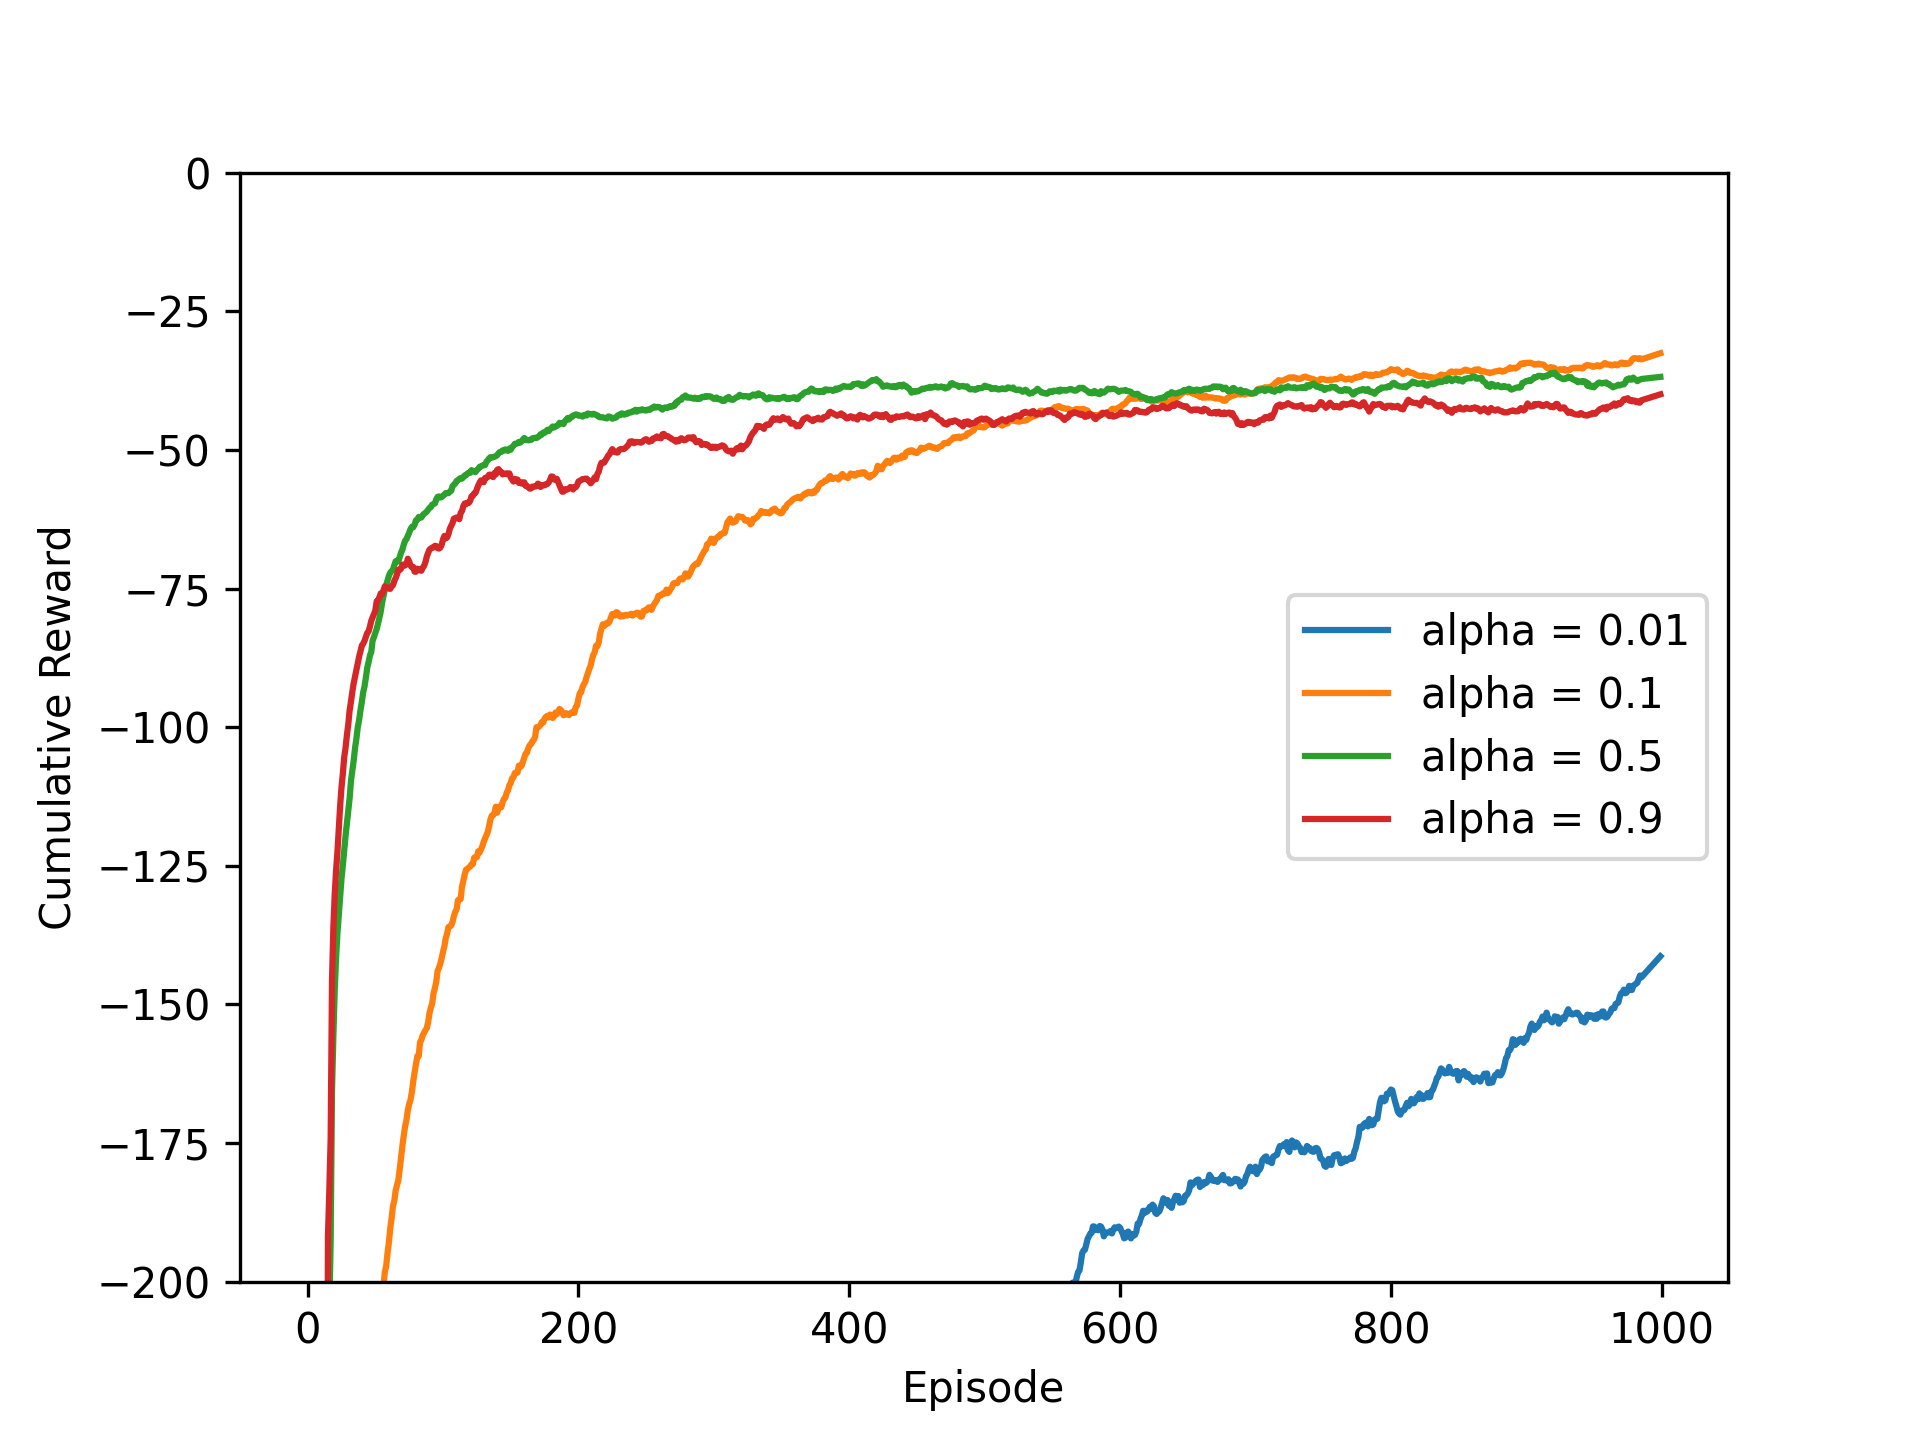
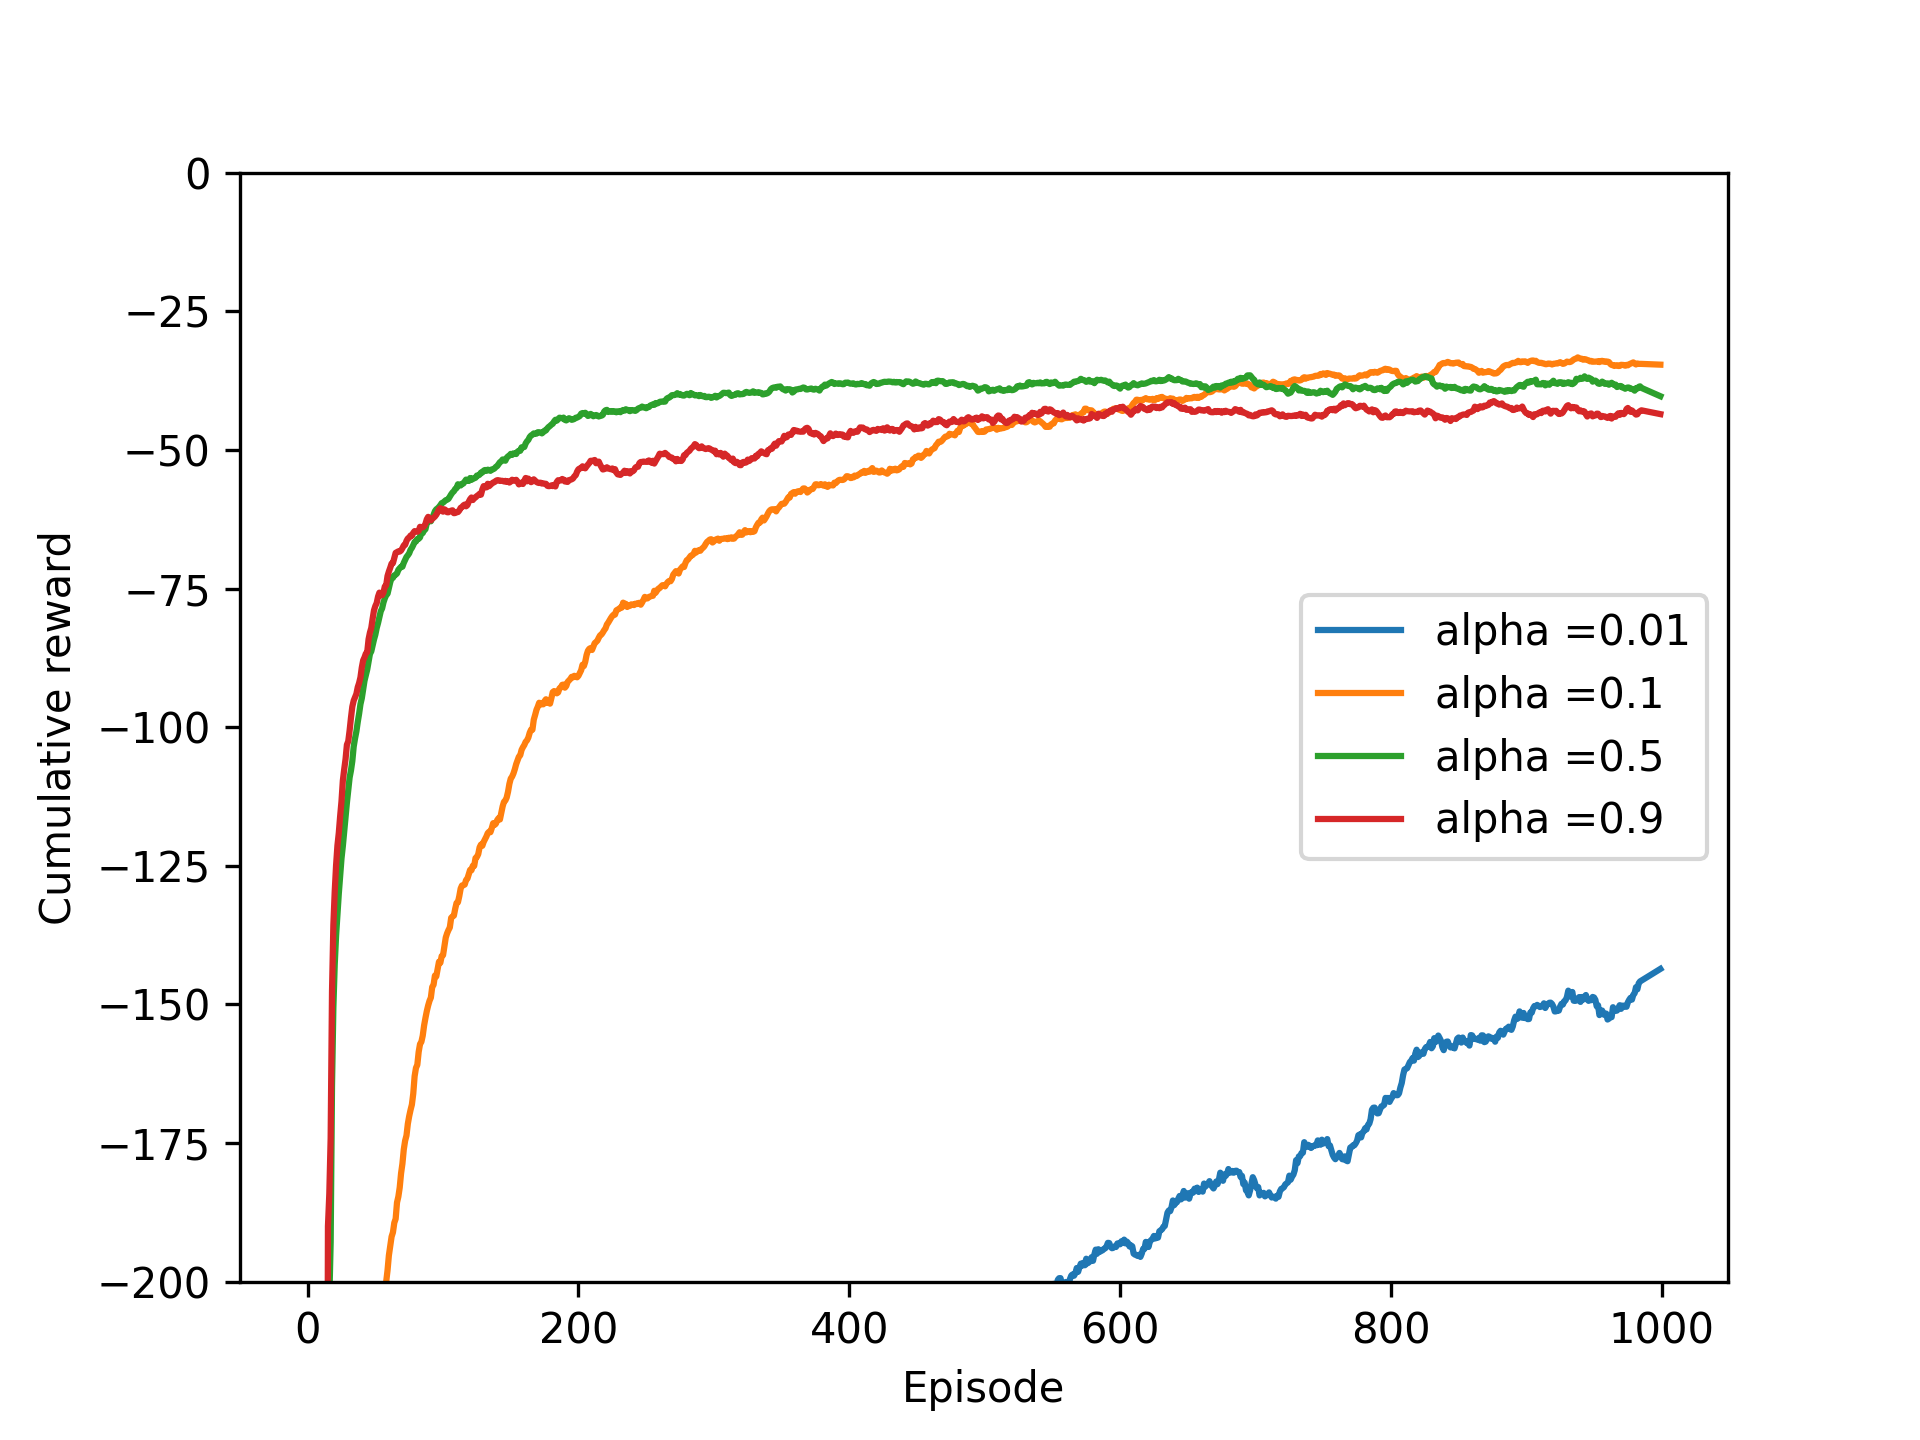
Changes in experiments final

diff --git a/ShortCutExperiment.py b/ShortCutExperiment.py
@@ -112,7 +112,7 @@ def averaged_learning_curve_plot(agent_type, n_rep = 100, n_episodes = 1000):
         averaged_rewards[i] = result[:, i].mean()
 
     learning_curve = LearningCurvePlot()
-    learning_curve.add_curve(smooth(y = averaged_rewards, window = smoothing_window), label = 'alpha = 0.1 ')
+    learning_curve.add_curve(smooth(y = averaged_rewards, window = smoothing_window), label = 'alpha = 0.1')
     learning_curve.save(name = agent_type + '_2.png')
     
 
@@ -133,22 +133,25 @@ def varying_alpha_experiment(agent_type, alpha = [0.01, 0.1, 0.5, 0.9], n_rep = 
 
 def main():
     # Q-learning experiments
-    action_max_value_plot(agent_type = 'Q_Learning')
-    averaged_learning_curve_plot(agent_type = 'Q_Learning')
+    #action_max_value_plot(agent_type = 'Q_Learning')
+    #averaged_learning_curve_plot(agent_type = 'Q_Learning')
     varying_alpha_experiment(agent_type = 'Q_Learning')
     
     # SARSA experiments
-    action_max_value_plot(agent_type = 'SARSA')
-    averaged_learning_curve_plot(agent_type = 'SARSA')
+    #action_max_value_plot(agent_type = 'SARSA')
+    #averaged_learning_curve_plot(agent_type = 'SARSA')
     varying_alpha_experiment(agent_type = 'SARSA')
     
     # Stormy weather experiment
-    action_max_value_plot(agent_type = 'SARSA', windy = True)
+    #action_max_value_plot(agent_type = 'SARSA', windy = True)
     
     #Expected-SARSA experiments
-    action_max_value_plot(agent_type = 'Expected_SARSA')
-    averaged_learning_curve_plot(agent_type = 'Expected_SARSA')
+    #action_max_value_plot(agent_type = 'Expected_SARSA')
     varying_alpha_experiment(agent_type = 'Expected_SARSA')
+    # Optimal alpha: 0.1
+    #averaged_learning_curve_plot(agent_type = 'Expected_SARSA')
+    
+    
                           
     
 

diff --git a/Helper.py b/Helper.py
@@ -19,7 +19,7 @@ class LearningCurvePlot:
     def __init__(self,title=None):
         self.fig,self.ax = plt.subplots()
         self.ax.set_xlabel('Episode')
-        self.ax.set_ylabel('Cumulative Reward')      
+        self.ax.set_ylabel('Cumulative reward')      
         self.ax.set_ylim([-200, 0])
         if title is not None:
             self.ax.set_title(title)
